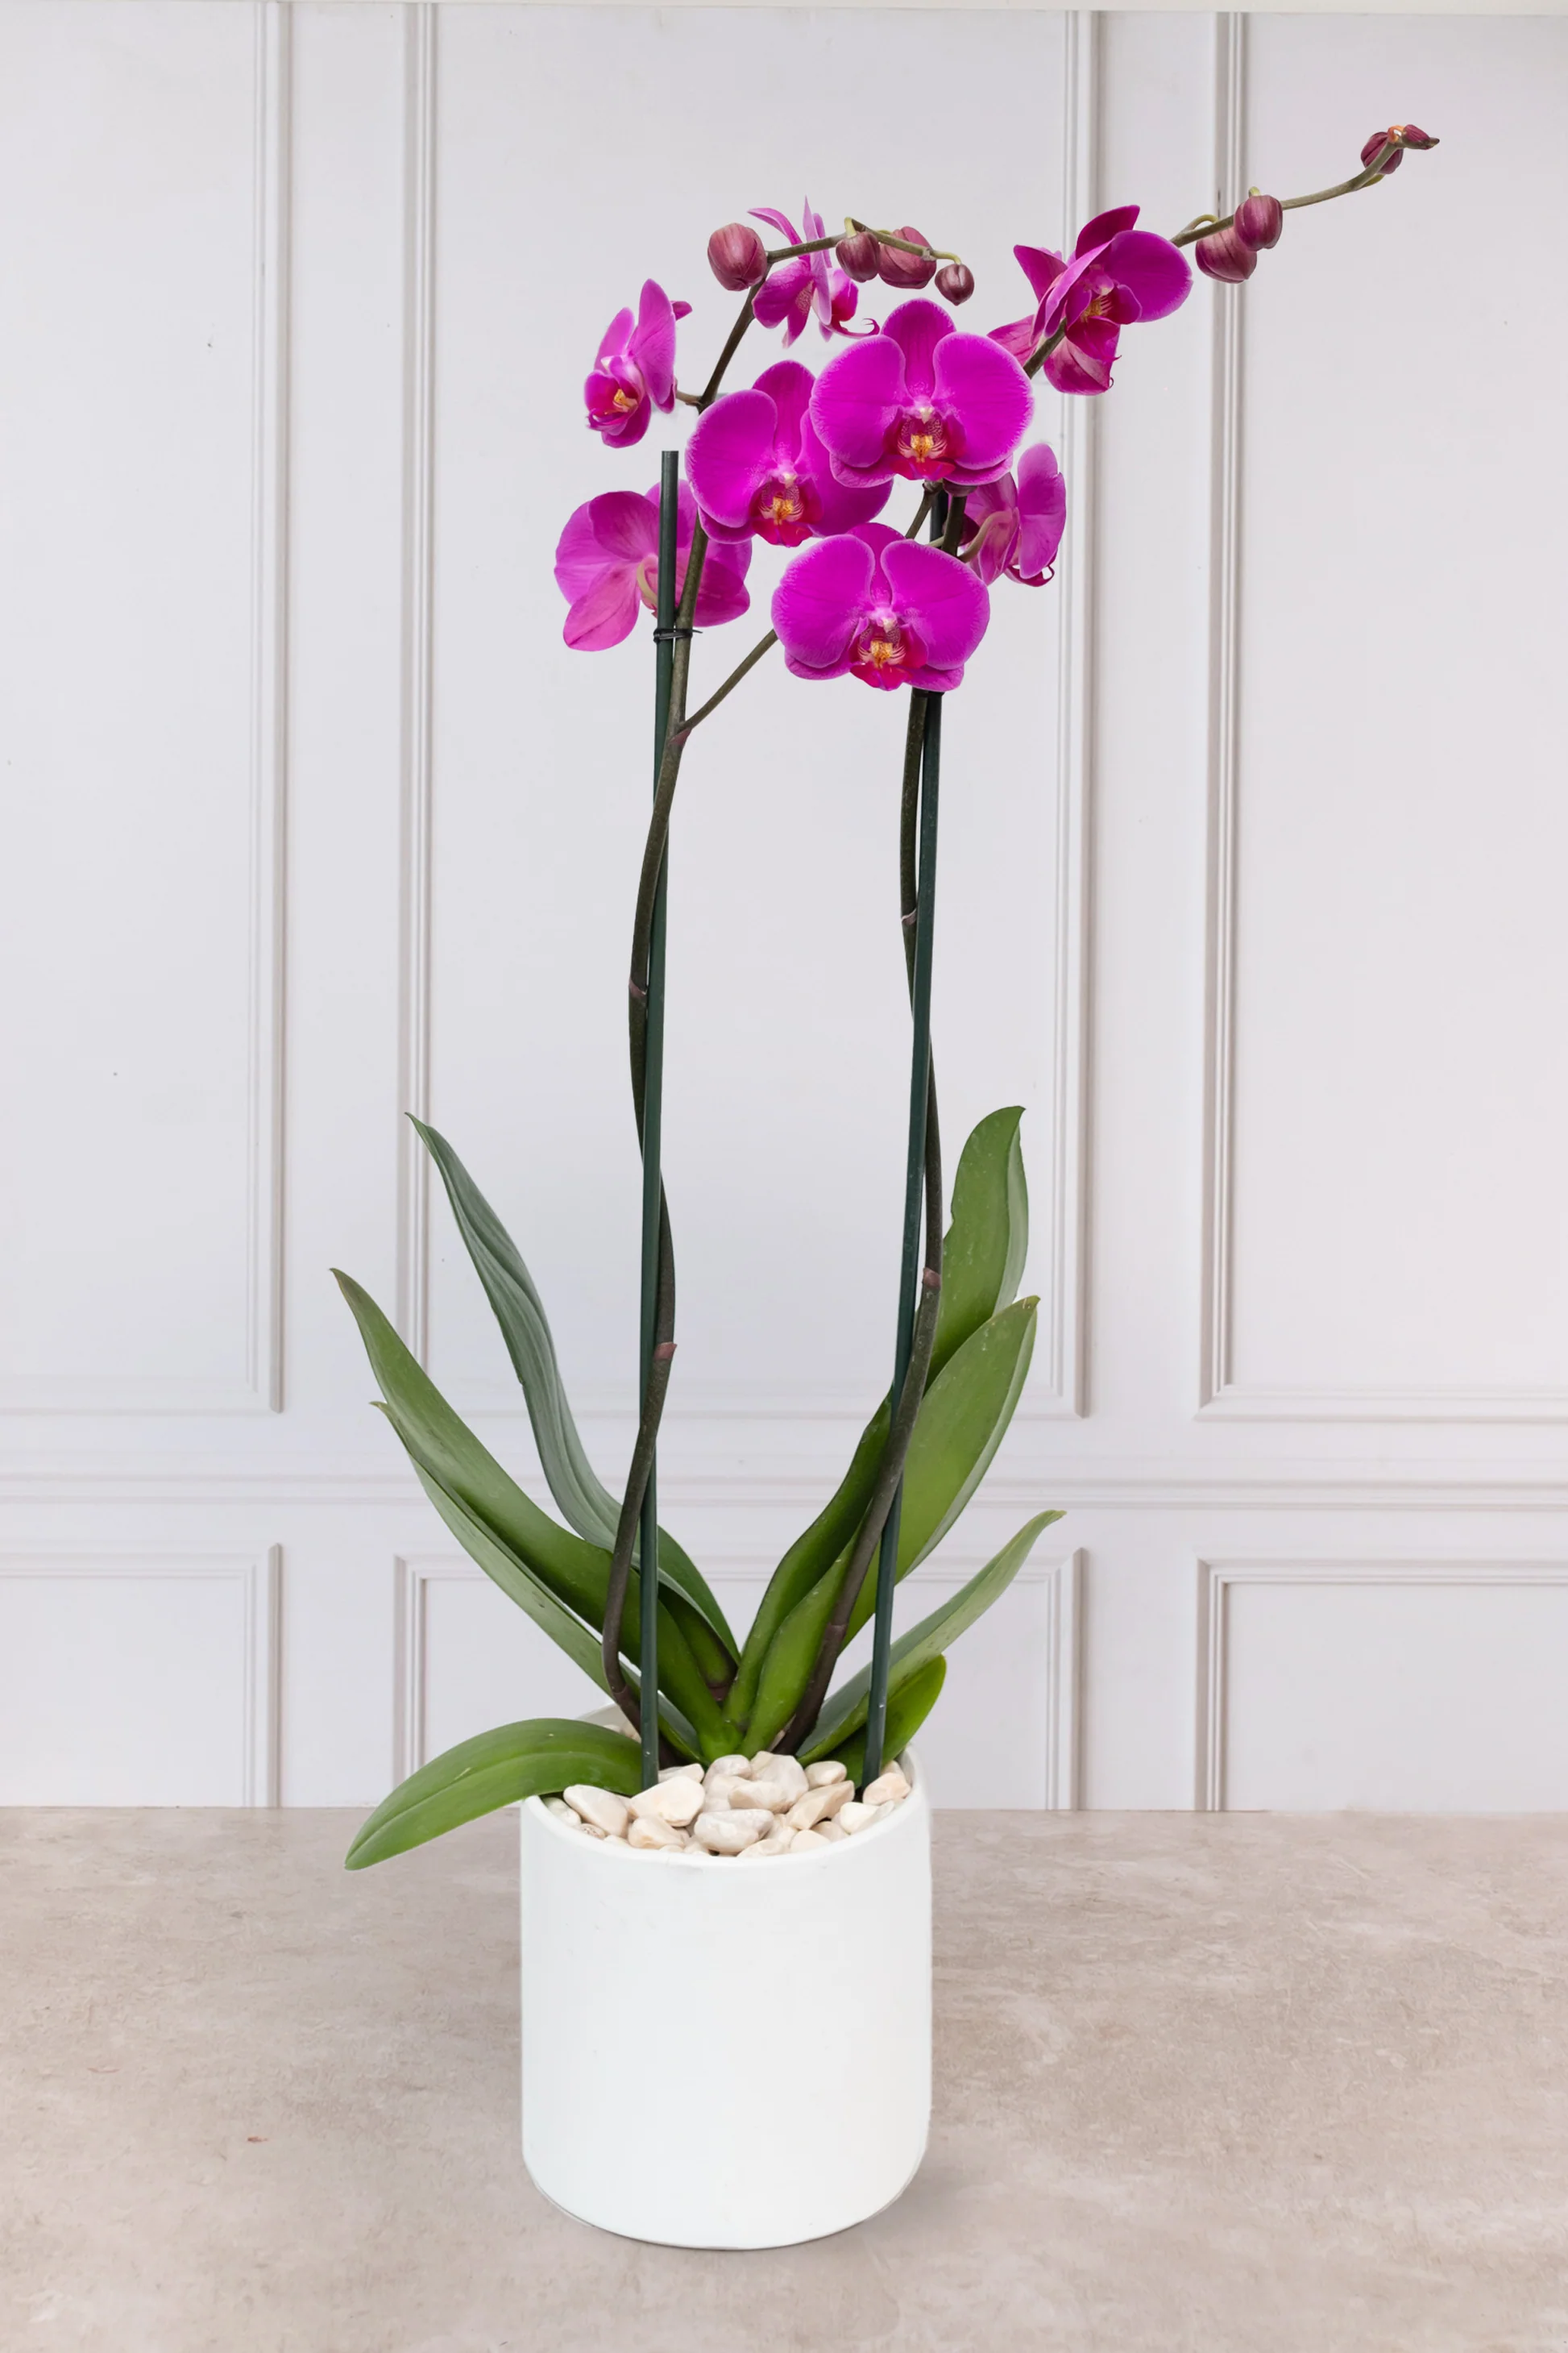
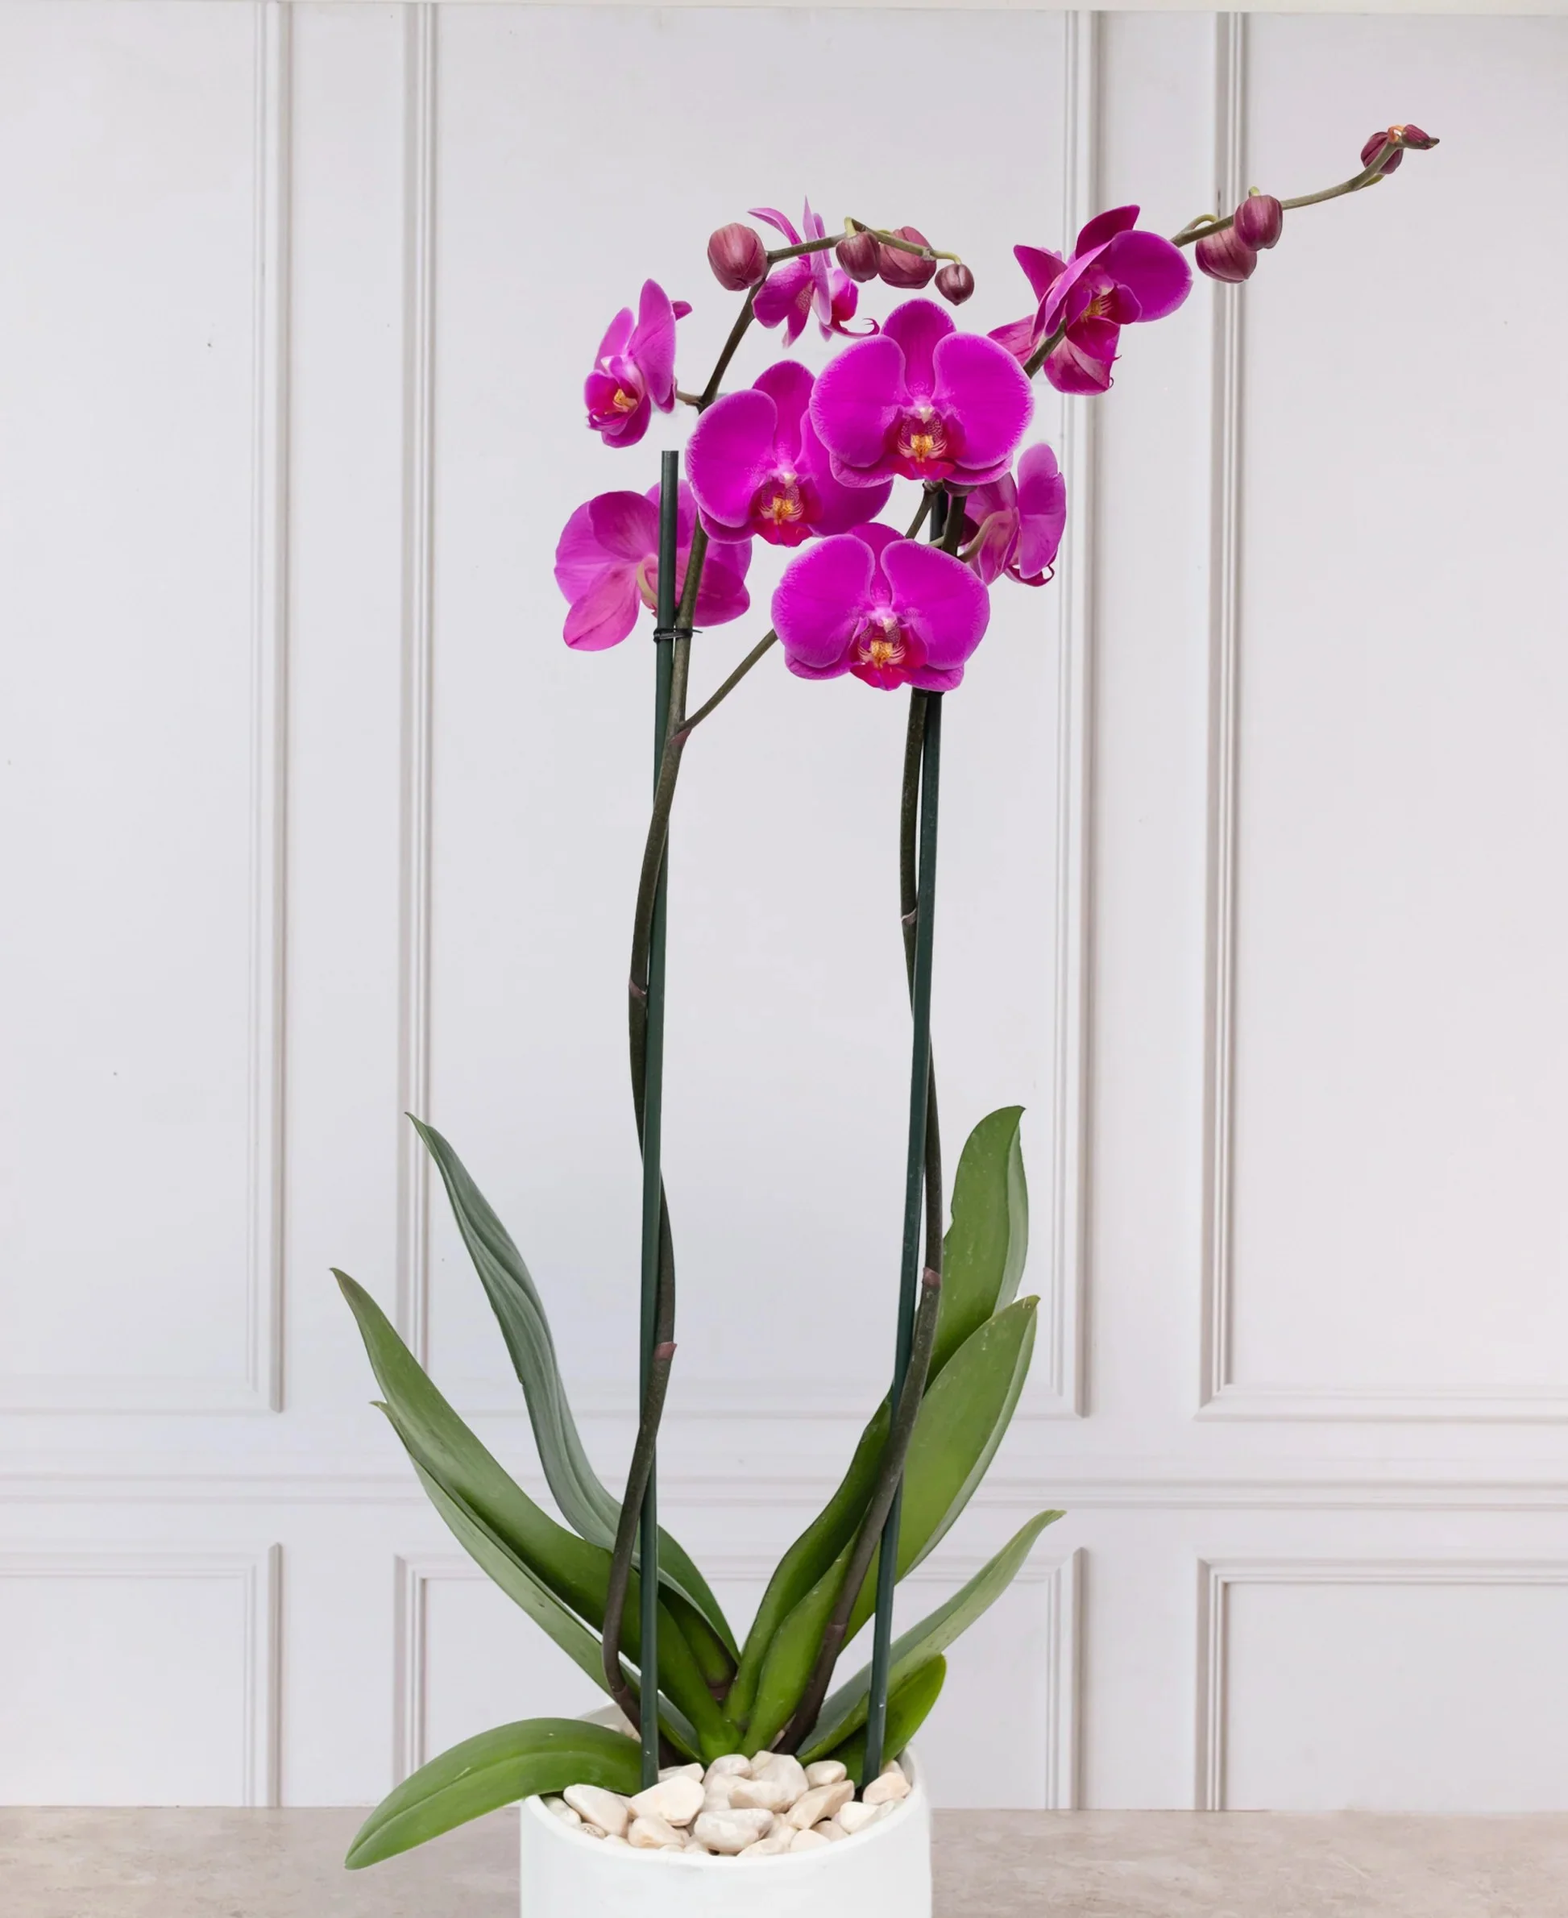
Se crear archivo Css para productos y se realizan modificaciones

diff --git a/index.html b/index.html
@@ -15,6 +15,7 @@
 
     <!-- Archivo CSS personalizado -->
     <link rel="stylesheet" href="./CSS/styles.css">
+    <link rel="stylesheet" href="./CSS/index.css">
 </head>
 <body>
     <!-- Section for the main navbar -->
@@ -33,7 +34,7 @@
         <div class="col">
             <div class="card h-100">
                 <div class="img-box">
-                <img src="./IMG/FloresMuestra/Tulipanes.webp" class="card-img-right img-destacados" alt="Product-image">
+                <img src="./IMG/FloresMuestra/Tulipanes.webp" class="card-img-top img-destacados" alt="Product-image">
                 </div>
                 <div class="card-body star-product">
                     <h5 class="card-title">Tulipanes</h5>
@@ -45,7 +46,7 @@
         </div>
         <div class="col">
             <div class="card h-100">
-                <img src="./IMG/FloresMuestra/gerberas-rojas.webp" class="card-img-right img-destacados" alt="Product-image">
+                <img src="./IMG/FloresMuestra/gerberas-rojas.webp" class="card-img-top img-destacados" alt="Product-image">
                 <div class="card-body star-product">
                     <h5 class="card-title">Gerberas</h5>
                     <p class="card-text"><small class="text-body-secondary star-product"><b>Precio:</b> $620.00 MXN</small></p>
@@ -56,7 +57,7 @@
         </div>
         <div class="col">
             <div class="card h-100">
-                <img src="./IMG/FloresMuestra/Dalias.webp" class="card-img-right img-destacados" alt="Product-image">
+                <img src="./IMG/FloresMuestra/Dalias.webp" class="card-img-top img-destacados" alt="Product-image">
                 <div class="card-body star-product">
                     <h5 class="card-title">Dalias</h5>
                     <p class="card-text"><small class="text-body-secondary star-product"><b>Precio:</b> $380.00 MXN</small></p>
@@ -67,7 +68,7 @@
         </div>
         <div class="col">
             <div class="card h-100">
-                <img src="./IMG/FloresMuestra/Orquidea.webp" class="card-img-right img-destacados" alt="Product-image">
+                <img src="./IMG/FloresMuestra/Orquidea.webp" class="card-img-top img-destacados" alt="Product-image">
                 <div class="card-body star-product">
                     <h5 class="card-title">Orquideas</h5>
                     <p class="card-text"><small class="text-body-secondary star-product"><b>Precio:</b> $989.00 MXN</small></p>
@@ -78,7 +79,7 @@
         </div>
         <div class="col">
             <div class="card h-100">
-                <img src="./IMG/FloresMuestra/Girasoles.webp" class="card-img-right img-destacados" alt="Product-image">
+                <img src="./IMG/FloresMuestra/Girasoles.webp" class="card-img-top img-destacados" alt="Product-image">
                 <div class="card-body star-product">
                     <h5 class="card-title">Girasoles</h5>
                     <p class="card-text"><small class="text-body-secondary star-product"><b>Precio:</b> $1,030.00 MXN</small></p>
@@ -89,7 +90,7 @@
         </div>
         <div class="col">
             <div class="card h-100">
-                <img src="./IMG/FloresMuestra/RosasRojas.webp" class="card-img-right img-destacados" alt="Product-image">
+                <img src="./IMG/FloresMuestra/RosasRojas.webp" class="card-img-top img-destacados" alt="Product-image">
                 <div class="card-body star-product">
                     <h5 class="card-title">Rosas Rojas</h5>
                     <p class="card-text"><small class="text-body-secondary star-product"><b>Precio:</b> $780.00 MXN</small></p>

diff --git a/CSS/productos.css b/CSS/productos.css
@@ -1,23 +1,35 @@
+*{
+    margin:0;
+    padding: 0;
+    box-sizing: border-box;
+    font-family:"Lora", serif ;
+}
 .card-container {
     display: grid;
-    grid-template-columns: repeat(3, 1fr);
+    grid-template-columns: repeat(4, 1fr);
     gap: 40px 40px !important;
-    padding: 20px;
+    padding: 40px;
     margin-bottom: 100px;
+    margin-top: 300px !important; 
 }
+
+#list-items {
+    margin-top: 50px !important;
+}
+
 
 .card {
     border-radius: 15px;
     overflow: hidden;
     box-shadow: 0 4px 8px rgba(0, 0, 0, 0.2);
     transition: transform 0.2s, box-shadow 0.2s;
-    max-width: 500px;
+    max-width: 600px;
     margin: auto;
     background-color: #f4f4f4;
     border: 1px solid #ccc;
     text-align: center;
-    min-height: 200px;
-    height: 400px;
+    min-height: 400px;
+    height: 550px;
     position: relative;
 }
 
@@ -29,17 +41,16 @@
 .card-img-top {
     border-top-left-radius: 15px;
     border-top-right-radius: 15px;
-    width: 100%; /* Ocupa todo el ancho del contenedor */
-    height: 350px; /* Altura fija consistente para todas las imágenes */
-    object-fit: cover; /* Llena el contenedor recortando partes si es necesario */
-    display: block;
+    width: 100%;
+    height: auto;
+    object-fit: cover;
+    max-height: 300px;
 }
-
 
 .card-body {
     padding: 15px;
     font-size: 0.9rem;
-    padding-bottom: 40px; /* Aumenta la separación entre el texto y el botón */
+    padding-bottom: 40px; 
 }
 
 .btn {
@@ -53,9 +64,9 @@
     left: 50%;
     transform: translateX(-50%);
     transition: opacity 0.3s ease, visibility 0.3s ease, color 0.3s ease;
-    background-color: white;
-    border: 2px solid #CDA1EE;
-    color: #CDA1EE;
+    background-color: #9FC5B1;
+    border: 2px solid #9FC5B1;
+    color: #ffffff;
     padding: 5px 15px;
     text-decoration: none;
 }
@@ -66,9 +77,9 @@
 }
 
 .btn:hover {
-    color: #FF69B4;
+    color: #fdfdfd;
     text-decoration: none;
-    background-color: white;
+    background-color: #9FC5B1;
 }
 
 .btn:focus,

diff --git a/JS/productos.js b/JS/productos.js
@@ -8,7 +8,7 @@ function addItem(item) {
             <div class="card-body">
                 <h5 class="card-title">${item.name}</h5>
                 <p class="card-text">${item.description}</p>
-                <a href="#" class="btn btn-primary">Add</a>
+                <a href="#" class="btn btn-primary">Comprar</a>
             </div>
         </div>
         <br/>

diff --git a/HTML/productos.html b/HTML/productos.html
@@ -14,6 +14,7 @@
 
     <!-- Archivo CSS personalizado -->
     <link rel="stylesheet" href="../CSS/styles.css">
+    <link rel="stylesheet" href="../CSS/productos.css">
 </head>
 <body>
  <!-- Section for the main navbar -->
